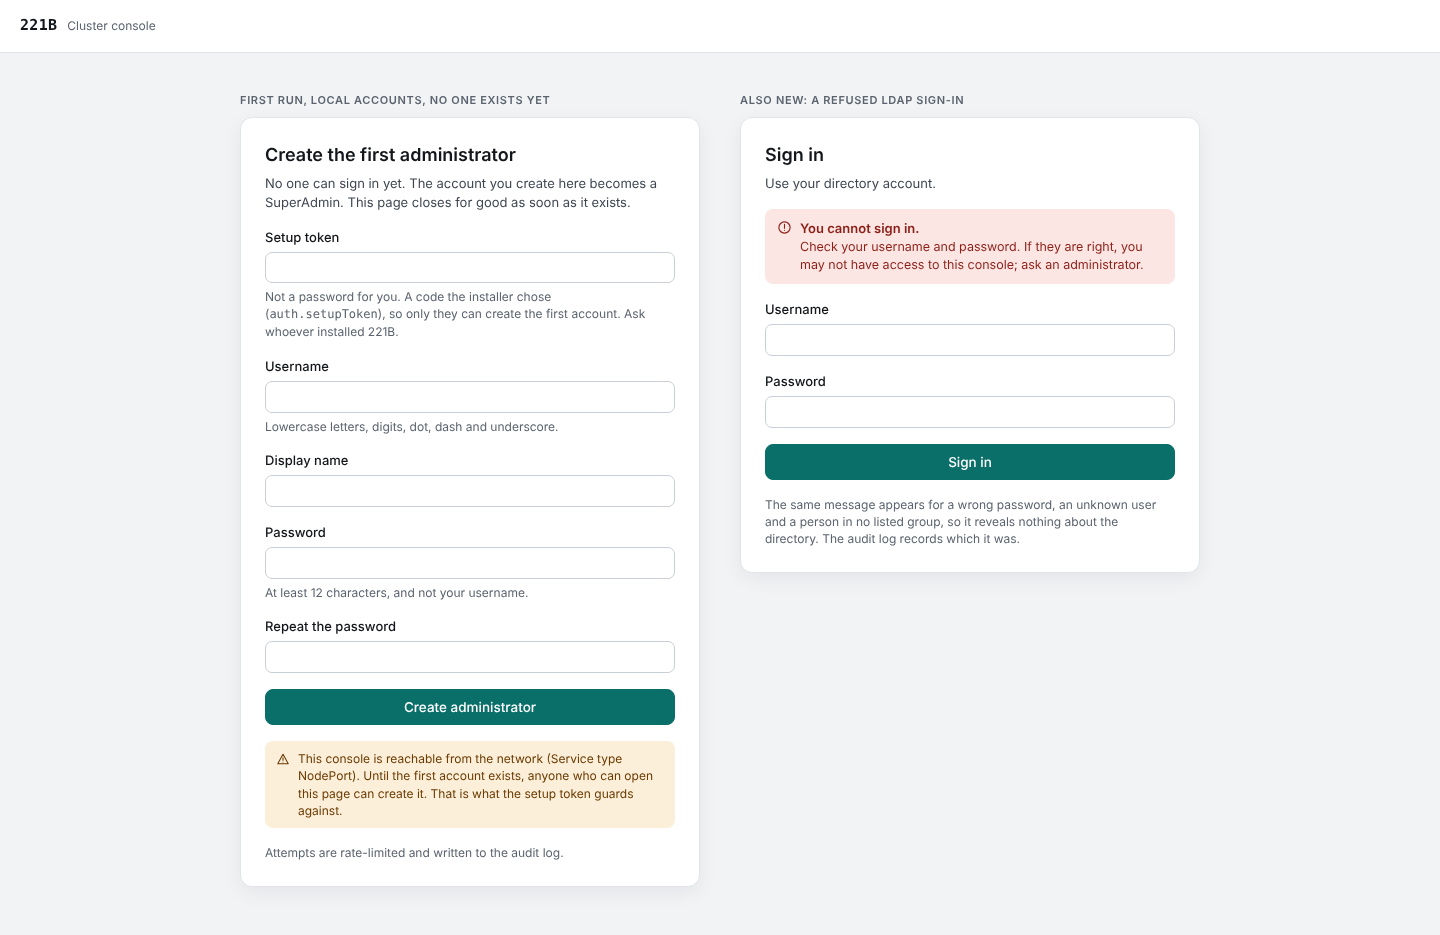
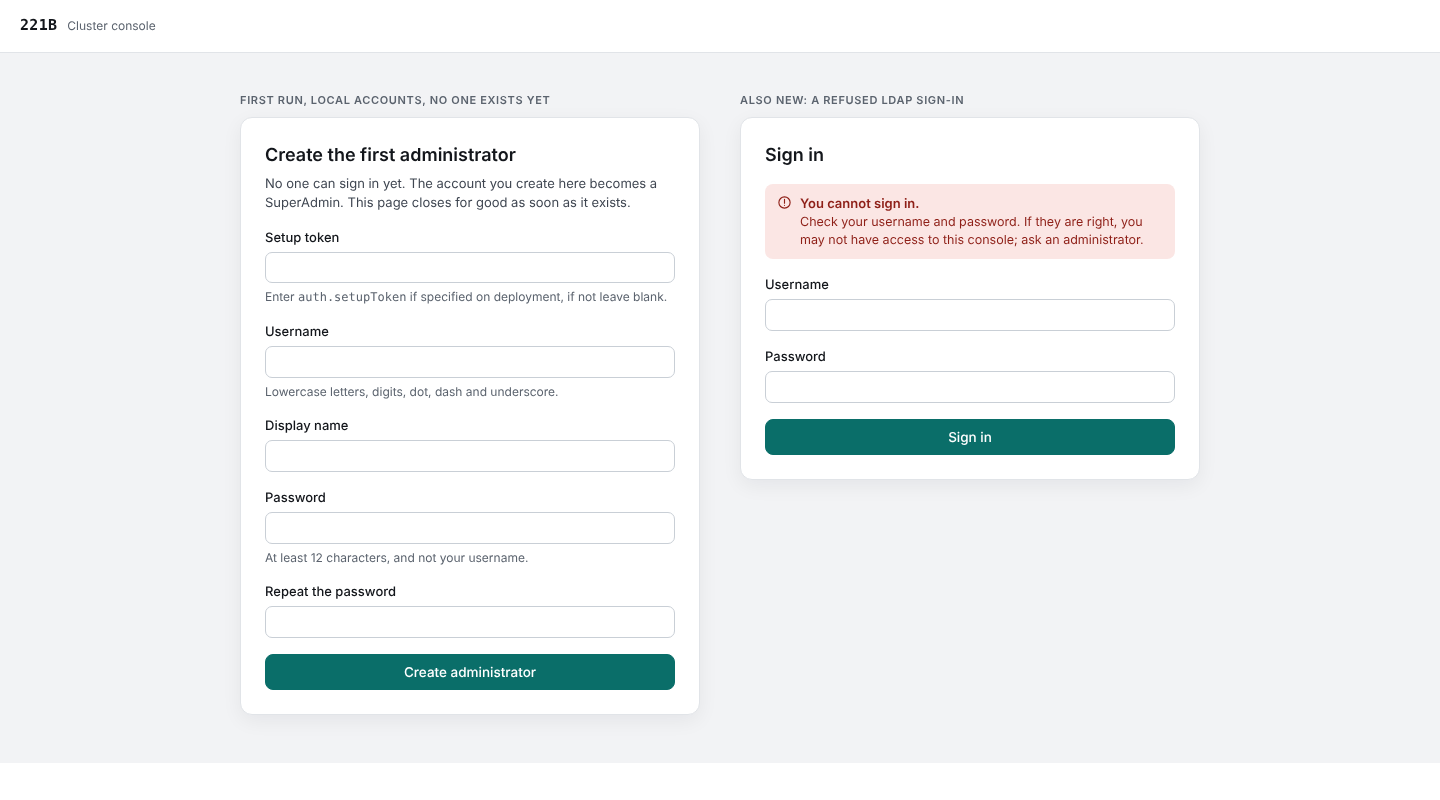
Docs: simplify the first-run page text in the roles and users design
Claude-Session: https://claude.ai/code/session_01AwAMkY2coeqVZS97jsZ8hF

Changed region(s): [[0.1562, 0.0938, 0.4688, 0.9375], [0.5, 0.0938, 0.8438, 0.5938], [0.0, 0.0, 0.0938, 0.0625]]

diff --git a/docs/design/roles-and-users/FirstRun.html b/docs/design/roles-and-users/FirstRun.html
@@ -33,7 +33,7 @@ a:focus-visible,button:focus-visible,input:focus-visible,select:focus-visible{ou
         <div style="display: flex; flex-direction: column; gap: 5px;">
           <label for="tok" style="font-weight: 500;">Setup token</label>
           <input id="tok" type="password" autocomplete="off" style="border: 1px solid #C9CFD6; border-radius: 7px; padding: 7px 10px; font-size: 13px; font-family: 'IBM Plex Mono', monospace; color: #13161B;">
-          <span style="color: #5B636E; font-size: 12px;">Not a password for you. A code the installer chose (<span style="font-family: 'IBM Plex Mono', monospace;">auth.setupToken</span>), so only they can create the first account. Ask whoever installed 221B.</span>
+          <span style="color: #5B636E; font-size: 12px;">Enter <span style="font-family: 'IBM Plex Mono', monospace;">auth.setupToken</span> if specified on deployment, if not leave blank.</span>
         </div>
         <div style="display: flex; flex-direction: column; gap: 5px;">
           <label for="uname" style="font-weight: 500;">Username</label>
@@ -56,11 +56,6 @@ a:focus-visible,button:focus-visible,input:focus-visible,select:focus-visible{ou
 
         <button type="button" style="border: 1px solid #0A6E69; background: #0A6E69; color: #FFFFFF; border-radius: 8px; padding: 9px 14px; font-size: 13.5px; font-weight: 500; cursor: pointer;">Create administrator</button>
 
-        <div style="display: flex; align-items: flex-start; gap: 8px; padding: 9px 11px; border-radius: 8px; background: #FBEFD9; color: #6B3A00; font-size: 12px;">
-          <svg width="14" height="14" viewBox="0 0 24 24" fill="none" stroke="currentColor" stroke-width="1.8" stroke-linecap="round" stroke-linejoin="round" aria-hidden="true" style="flex: none; margin-top: 2px;"><path d="M12 4l9 16H3L12 4z"/><path d="M12 10v4M12 17h.01"/></svg>
-          <span>This console is reachable from the network (Service type NodePort). Until the first account exists, anyone who can open this page can create it. That is what the setup token guards against.</span>
-        </div>
-        <p style="margin: 0; color: #5B636E; font-size: 12px;">Attempts are rate-limited and written to the audit log.</p>
       </section>
     </div>
 
@@ -69,7 +64,6 @@ a:focus-visible,button:focus-visible,input:focus-visible,select:focus-visible{ou
       <section aria-labelledby="sign-h" style="background: #FFFFFF; border: 1px solid #E1E4E8; border-radius: 12px; padding: 24px; display: flex; flex-direction: column; gap: 16px; box-shadow: 0 6px 20px rgba(19,22,27,.06);">
         <div style="display: flex; flex-direction: column; gap: 6px;">
           <h1 id="sign-h" style="margin: 0; font-size: 18px; font-weight: 600;">Sign in</h1>
-          <p style="margin: 0; color: #3F4651;">Use your directory account.</p>
         </div>
 
         <div role="alert" style="display: flex; align-items: flex-start; gap: 8px; padding: 10px 12px; border-radius: 8px; background: #FBE6E4; color: #8E1F17;">
@@ -89,7 +83,6 @@ a:focus-visible,button:focus-visible,input:focus-visible,select:focus-visible{ou
           <input id="p2" type="password" autocomplete="current-password" style="border: 1px solid #C9CFD6; border-radius: 7px; padding: 7px 10px; font-size: 13px; color: #13161B;">
         </div>
         <button type="button" style="border: 1px solid #0A6E69; background: #0A6E69; color: #FFFFFF; border-radius: 8px; padding: 9px 14px; font-size: 13.5px; font-weight: 500; cursor: pointer;">Sign in</button>
-        <p style="margin: 0; color: #5B636E; font-size: 12px;">The same message appears for a wrong password, an unknown user and a person in no listed group, so it reveals nothing about the directory. The audit log records which it was.</p>
       </section>
     </div>
 

diff --git a/docs/roles-and-users.md b/docs/roles-and-users.md
@@ -173,7 +173,7 @@ These apply on top of the requirements for every phase (X-01 to X-17). Those tha
 | ID | Requirement | Done when |
 | --- | --- | --- |
 | RB-26 | **Local users.** While no user exists and LDAP is not configured, the console shows a first-run page that asks for the first administrator's name and password. That person becomes a SuperAdmin. The page closes for good once a user exists, is rate-limited, and is audited. There is no generated password. | A second visit shows the normal sign-in; more than 5 attempts a minute are refused; the audit log has the setup. |
-| RB-27 | An optional chart value, `auth.setupToken`, must be typed on the first-run page when set. The first-run page says in a line what the token is and that the installer set it. The chart's install notes warn when the Service is reachable from outside the cluster; they do not print the token. | With a token set, a wrong or missing token is refused. |
+| RB-27 | An optional chart value, `auth.setupToken`, must be typed on the first-run page when set. The first-run page has a Setup token field with the hint "Enter auth.setupToken if specified on deployment, if not leave blank." The chart's install notes warn when the Service is reachable from outside the cluster; they do not print the token. | With a token set, a wrong or missing token is refused. |
 | RB-28 | **LDAP and OIDC.** The first SuperAdmins are the groups listed under `superAdmin` (RB-20, or the OIDC lists). They hold the role from the first start and cannot be removed in the console. Existing `auth.admins` and `auth.adminGroups` keep working. In LDAP mode, local users can still be listed in values as break-glass accounts, and cannot be created in the console (open question). | A fresh install with an LDAP group under `superAdmin` gives its members SuperAdmin at first sign-in; an upgrade keeps today's administrators. |
 | RB-29 | The chart creates the chosen role definitions, the nodes ClusterRole and the three reserved group bindings on the cluster the console runs in. For every other cluster, the connection editor shows the same YAML, in the full or the read-only variant, and the connection test says which of the objects are missing or differ. Until they exist, people see an empty console there, and the page says why. | A newly connected cluster with nothing applied shows the YAML and a clear message; after applying it, a SuperViewer sees the cluster. |
 | RB-30 | The last SuperAdmin cannot be removed, disabled or deleted, and the console says so. | The attempt is refused and audited. |
